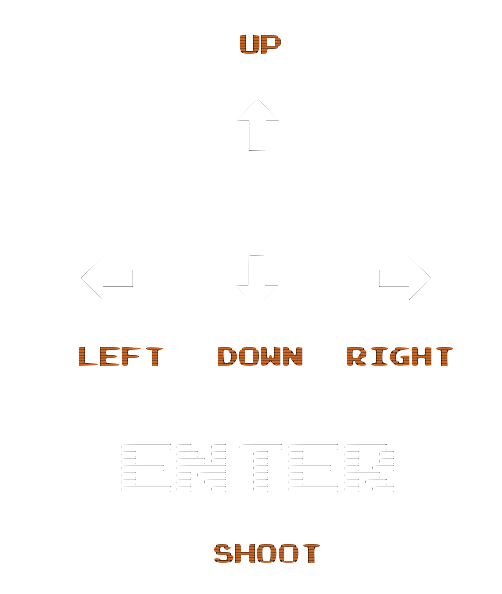
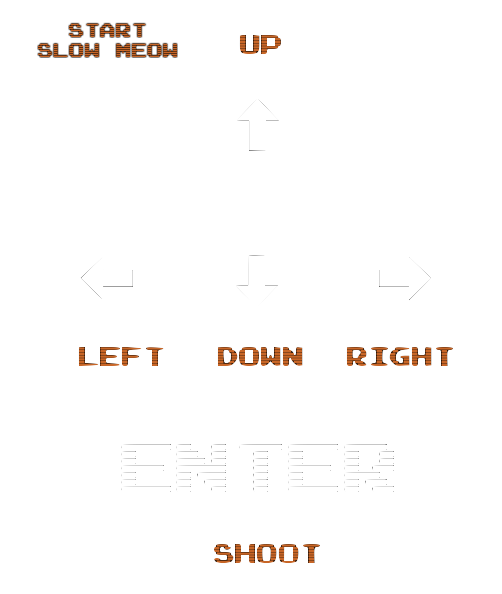
Slow Meow Key Tied to Control Swapping System

Changed region(s): [[0.0598, 0.0303, 0.3586, 0.1212]]

diff --git a/docs/src/UI/PreGame.js b/docs/src/UI/PreGame.js
@@ -139,9 +139,9 @@ class PreGameInterface {
     let addControls;
 
     let offset_x = root_x + 150;
-    let offset_y;
+    let offset_y = 345;
 
-    let ctrl_pad_x = 160;
+    let ctrl_pad_x = 180;
     let ctrl_pad_y = ctrl_pad_x * 1.1;
 
     let add_contrl_x = 110;
@@ -157,9 +157,11 @@ class PreGameInterface {
     control_title.position(100, root_y);
 
     if (wasd_control) {
-      controls = createImg(wasd_icon);
+      if (!pvpMode) controls = createImg(wasd_icon);
+      else controls = createImg(wasd_icon_pvp);
     } else {
-      controls = createImg(arrow_icon);
+      if (!pvpMode) controls = createImg(arrow_icon);
+      else controls = createImg(arrow_icon_pvp);
     }
     controls.parent(pregameWindow);
     controls.position(85, 340);
@@ -170,9 +172,11 @@ class PreGameInterface {
       let secondary_controls;
 
       if (wasd_control) {
-        secondary_controls = createImg(arrow_icon);
+        if (!pvpMode) secondary_controls = createImg(arrow_icon);
+        else secondary_controls = createImg(arrow_icon_pvp);
       } else {
-        secondary_controls = createImg(wasd_icon);
+        if (!pvpMode) secondary_controls = createImg(wasd_icon);
+        else secondary_controls = createImg(wasd_icon_pvp);
       }
       secondary_controls.parent(pregameWindow);
       secondary_controls.position(offset_x, 340);
@@ -180,15 +184,9 @@ class PreGameInterface {
       secondary_controls.attribute("draggable", "false");
       offset_x += 170;
     }
-    if (pvpMode) {
-      addControls = createImg(add_ctrls_pvp);
-      add_contrl_y = add_contrl_x / 1.6;
-      offset_y = 345;
-    } else {
-      addControls = createImg(add_ctrls);
-      add_contrl_y = add_contrl_x * 1.2;
-      offset_y = 360;
-    }
+
+    addControls = createImg(add_ctrls);
+    add_contrl_y = add_contrl_x / 1.6;
     addControls.parent(pregameWindow);
     addControls.position(offset_x, offset_y);
     addControls.size(add_contrl_x, add_contrl_y);

diff --git a/docs/src/UI/Settings.js b/docs/src/UI/Settings.js
@@ -100,14 +100,14 @@ class Settings {
       controlDisplay = createImg(arrow_icon);
     }
     controlDisplay.parent(howtopanel);
-    controlDisplay.position(20, 310);
-    controlDisplay.size(200, 230);
+    controlDisplay.position(0, 310);
+    controlDisplay.size(230, 250);
     controlDisplay.attribute("draggable", "false");
 
     let slowmeowhelp = createImg(add_ctrls);
     slowmeowhelp.parent(howtopanel);
-    slowmeowhelp.position(240, 320);
-    slowmeowhelp.size(140, 170);
+    slowmeowhelp.position(210, 325);
+    slowmeowhelp.size(120, 75);
     slowmeowhelp.attribute("draggable", "false");
 
     instBack = createP("<<");
@@ -239,7 +239,7 @@ class Settings {
     wasd = createImg(wasd_icon);
     wasd.parent(settingpanel);
     wasd.position(320, 100);
-    wasd.size(150, 160);
+    wasd.size(170, 180);
     wasd.attribute("draggable", "false");
     wasd.mouseClicked(() => {
       if (!muted) menuClickSound.play();
@@ -249,7 +249,7 @@ class Settings {
     arrow = createImg(arrow_icon);
     arrow.parent(settingpanel);
     arrow.position(500, 100);
-    arrow.size(150, 160);
+    arrow.size(160, 180);
     arrow.attribute("draggable", "false");
     arrow.mouseClicked(() => {
       if (!muted) menuClickSound.play();
@@ -391,24 +391,28 @@ class Settings {
       p1_left = 65;
       p1_right = 68;
       p1_shoot = 32;
+      p1_slowmeow = 81;
 
       p2_up = 38;
       p2_down = 40;
       p2_left = 37;
       p2_right = 39;
       p2_shoot = 13;
+      p2_slowmeow = 191;
     } else {
       p1_up = 38;
       p1_down = 40;
       p1_left = 37;
       p1_right = 39;
       p1_shoot = 13;
+      p1_slowmeow = 191;
 
       p2_up = 87;
       p2_down = 83;
       p2_left = 65;
       p2_right = 68;
       p2_shoot = 32;
+      p2_slowmeow = 81;
     }
   }
 }

diff --git a/docs/src/entities/base/Player.js b/docs/src/entities/base/Player.js
@@ -50,7 +50,8 @@ class Player extends Sprite {
 
   update() {
     super.update();
-    if (game.slowMeowHandler && game.slowMeowHandler.occurring && this.isActive && (this.velocity.x != 0.0 || this.velocity.y != 0.0)) {
+    if (game.slowMeowHandler && game.slowMeowHandler.occurring &&
+      this.isActive && (this.velocity.x != 0.0 || this.velocity.y != 0.0)) {
       // Slow meow particle burst
       let offsetX = random(-15, 15);
       let offsetY = random(-30, 30);
@@ -345,6 +346,23 @@ class Player extends Sprite {
       this.speed = 2.75;
     }
     this.originalSpeed = 2.75;
+  }
+
+  handleSlowMeow() {
+    if (!game || game.gameState != GameStates.ACTIVE ||
+      transitioning || commandPrompt ||
+      (!playerA.isActive && (!coop || !playerB.isActive))
+    ) {
+      return;
+    }
+    // 'Q' key for player 1
+    if (this.player === playerNumber.PLAYER_1 && keyIsDown(p1_slowmeow)) {
+      game.slowMeowHandler.activate();
+    }
+    // '/' key for player 2
+    else if (this.player === playerNumber.PLAYER_2 && keyIsDown(p2_slowmeow)) {
+      game.slowMeowHandler.activate();
+    }
   }
 
   // For behaviour monitoring

diff --git a/docs/src/core/sketch.js b/docs/src/core/sketch.js
@@ -232,17 +232,6 @@ function keyPressed() {
       inputField = null;
     }
   }
-
-  // SlowMeow gets activated with 'Q' or '/'
-  if (game && game.gameState == GameStates.ACTIVE) {
-    if (!transitioning && !pvpMode && !commandPrompt) {
-      if (playerA.isActive || (coop && playerB.isActive)) {
-        if (keyCode == 81 || keyCode == 191) {
-          game.slowMeowHandler.activate();
-        }
-      }
-    }
-  }
 }
 
 // Used for slowing down sounds in slow mo

diff --git a/docs/src/core/Assets.js b/docs/src/core/Assets.js
@@ -103,6 +103,8 @@ let setback = "assets/setback.png";
 
 let wasd_icon = "assets/wasd_icon.png";
 let arrow_icon = "assets/arrowpad_icon.png";
+let wasd_icon_pvp = "assets/wasd_icon_pvp.png";
+let arrow_icon_pvp = "assets/arrowpad_icon_pvp.png";
 
 let add_ctrls = "assets/additional_controls.png";
 let add_ctrls_pvp = "assets/additional_controls_pvp.png";

diff --git a/docs/src/core/GlobalVars.js b/docs/src/core/GlobalVars.js
@@ -81,12 +81,14 @@ let p1_down = 83;
 let p1_left = 65;
 let p1_right = 68;
 let p1_shoot = 32;
+let p1_slowmeow = 81;
 
 let p2_up = 38;
 let p2_down = 40;
 let p2_left = 37;
 let p2_right = 39;
 let p2_shoot = 13;
+let p2_slowmeow = 191;
 
 // Debugging vars
 let commandPrompt = false;

diff --git a/docs/src/room/Room.js b/docs/src/room/Room.js
@@ -204,9 +204,11 @@ class Room {
     }
 
     playerA.fire();
+    playerA.handleSlowMeow();
     playerA.draw();
     if (coop) {
       playerB.fire();
+      playerB.handleSlowMeow();
       playerB.draw();
     }
 
